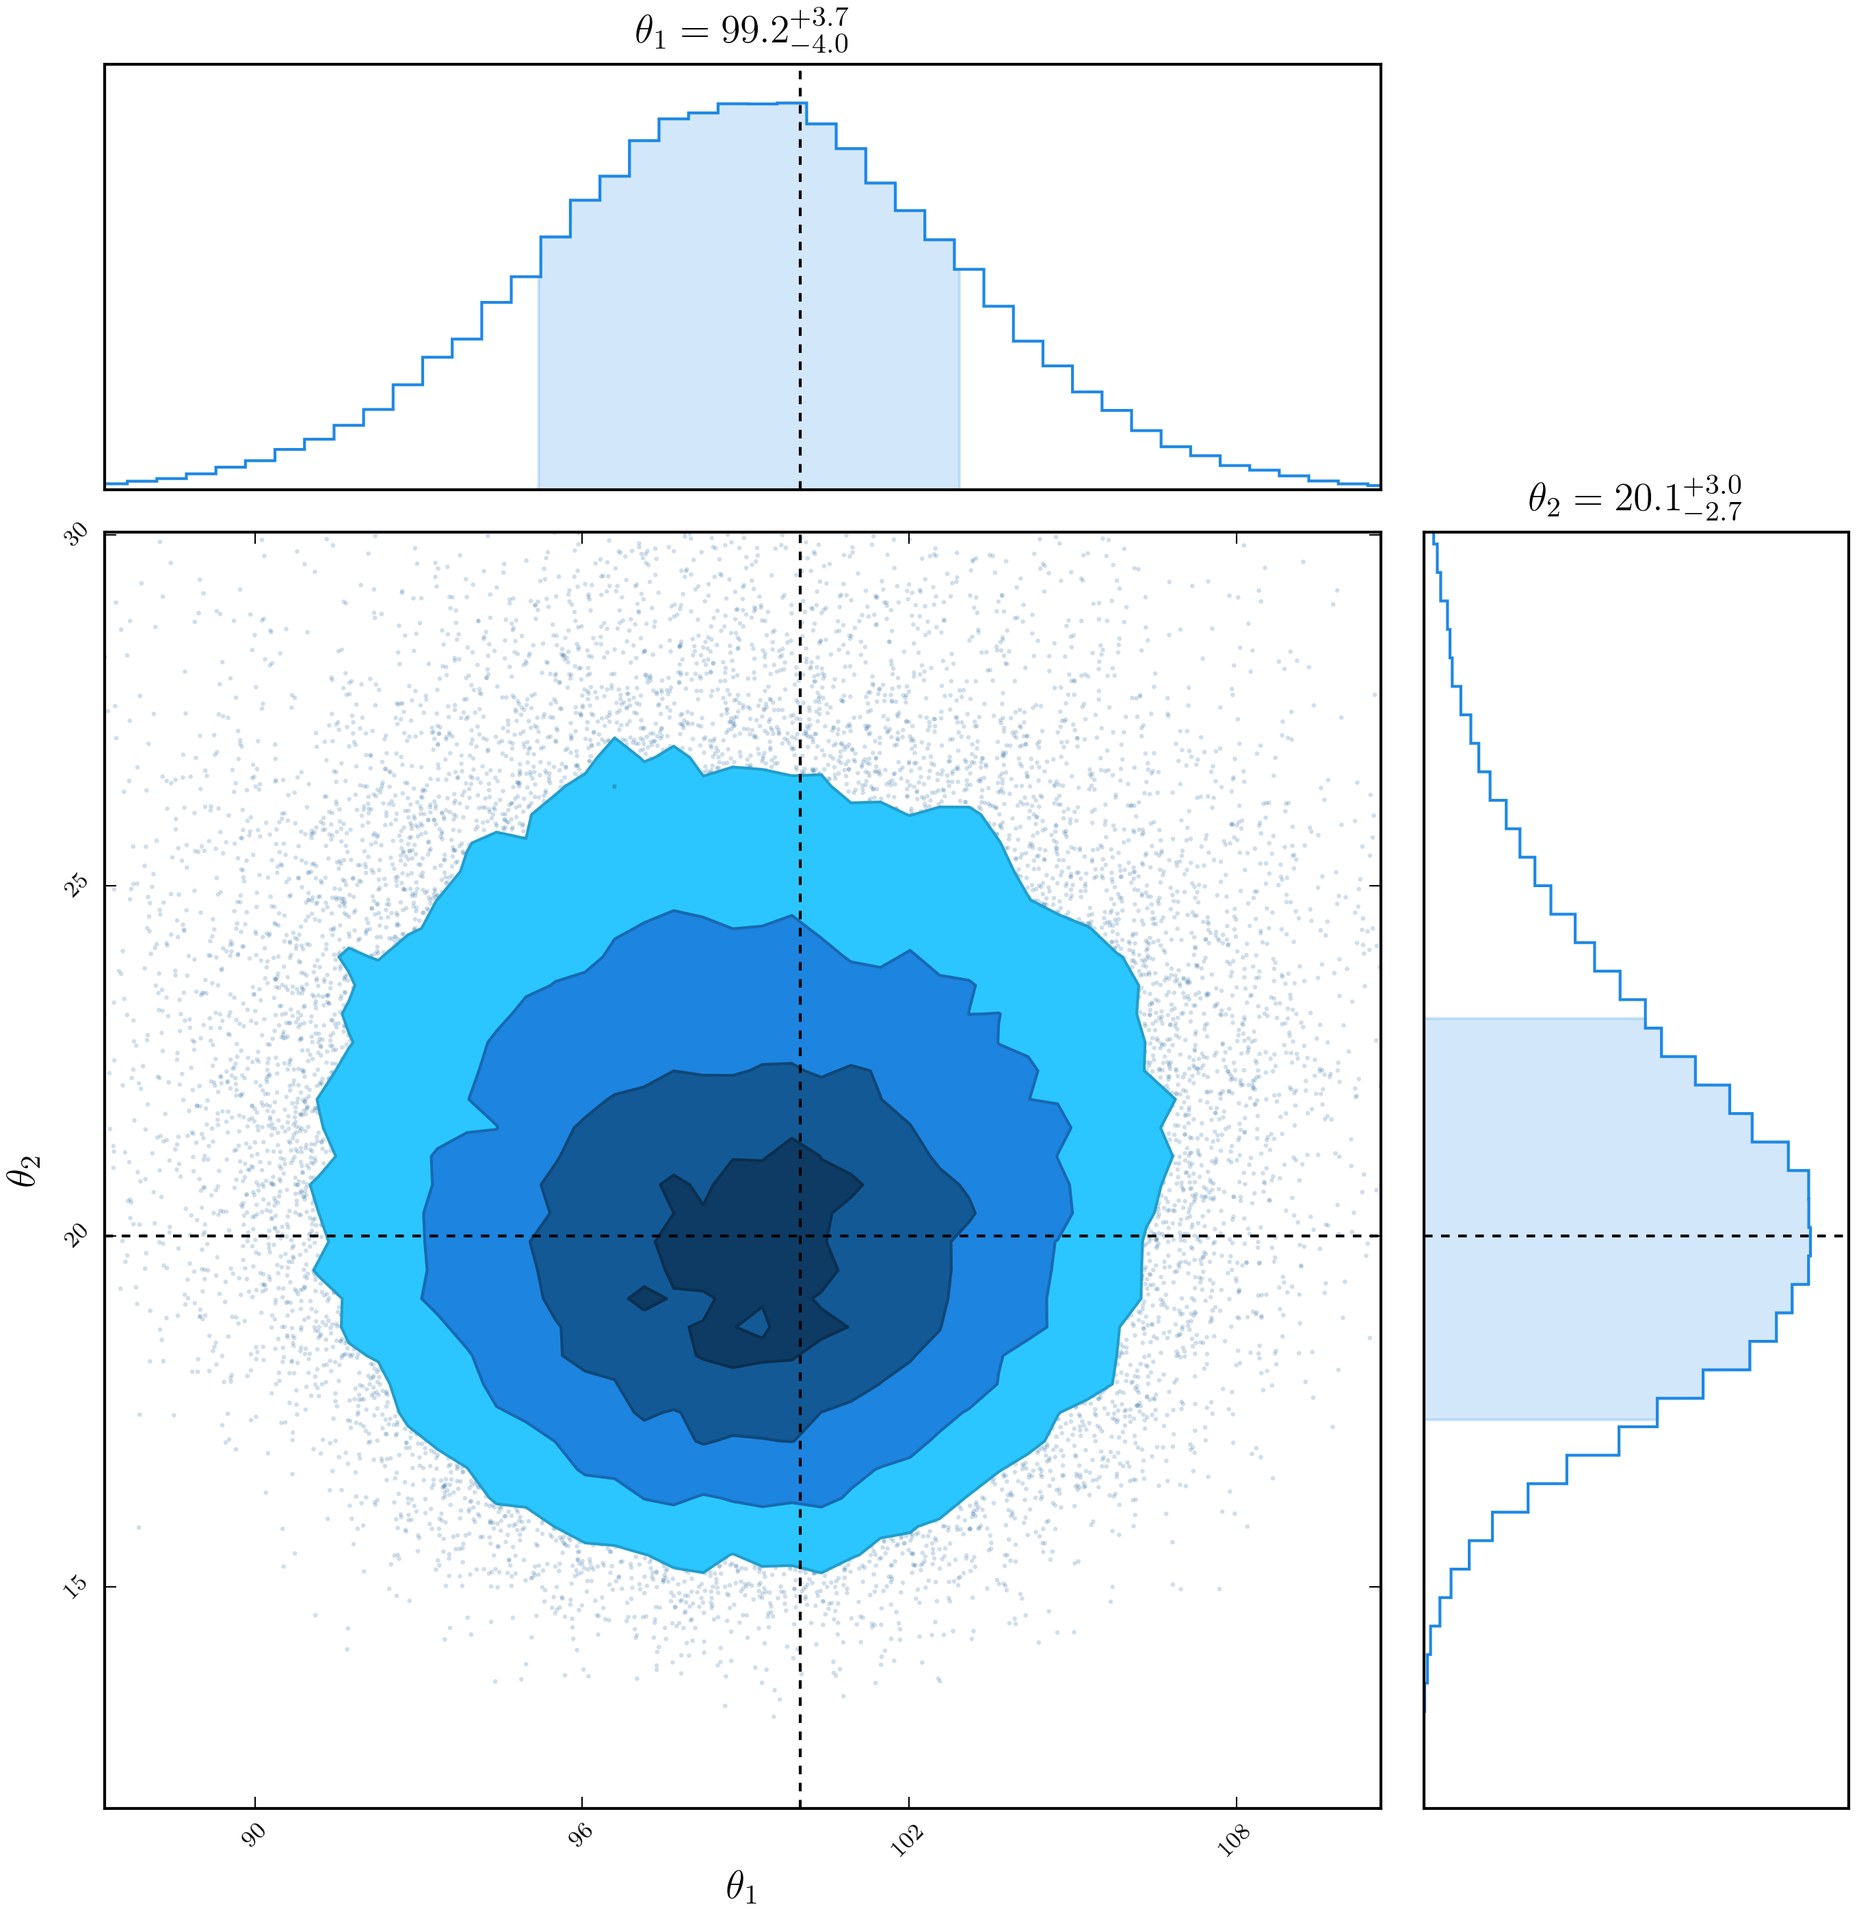
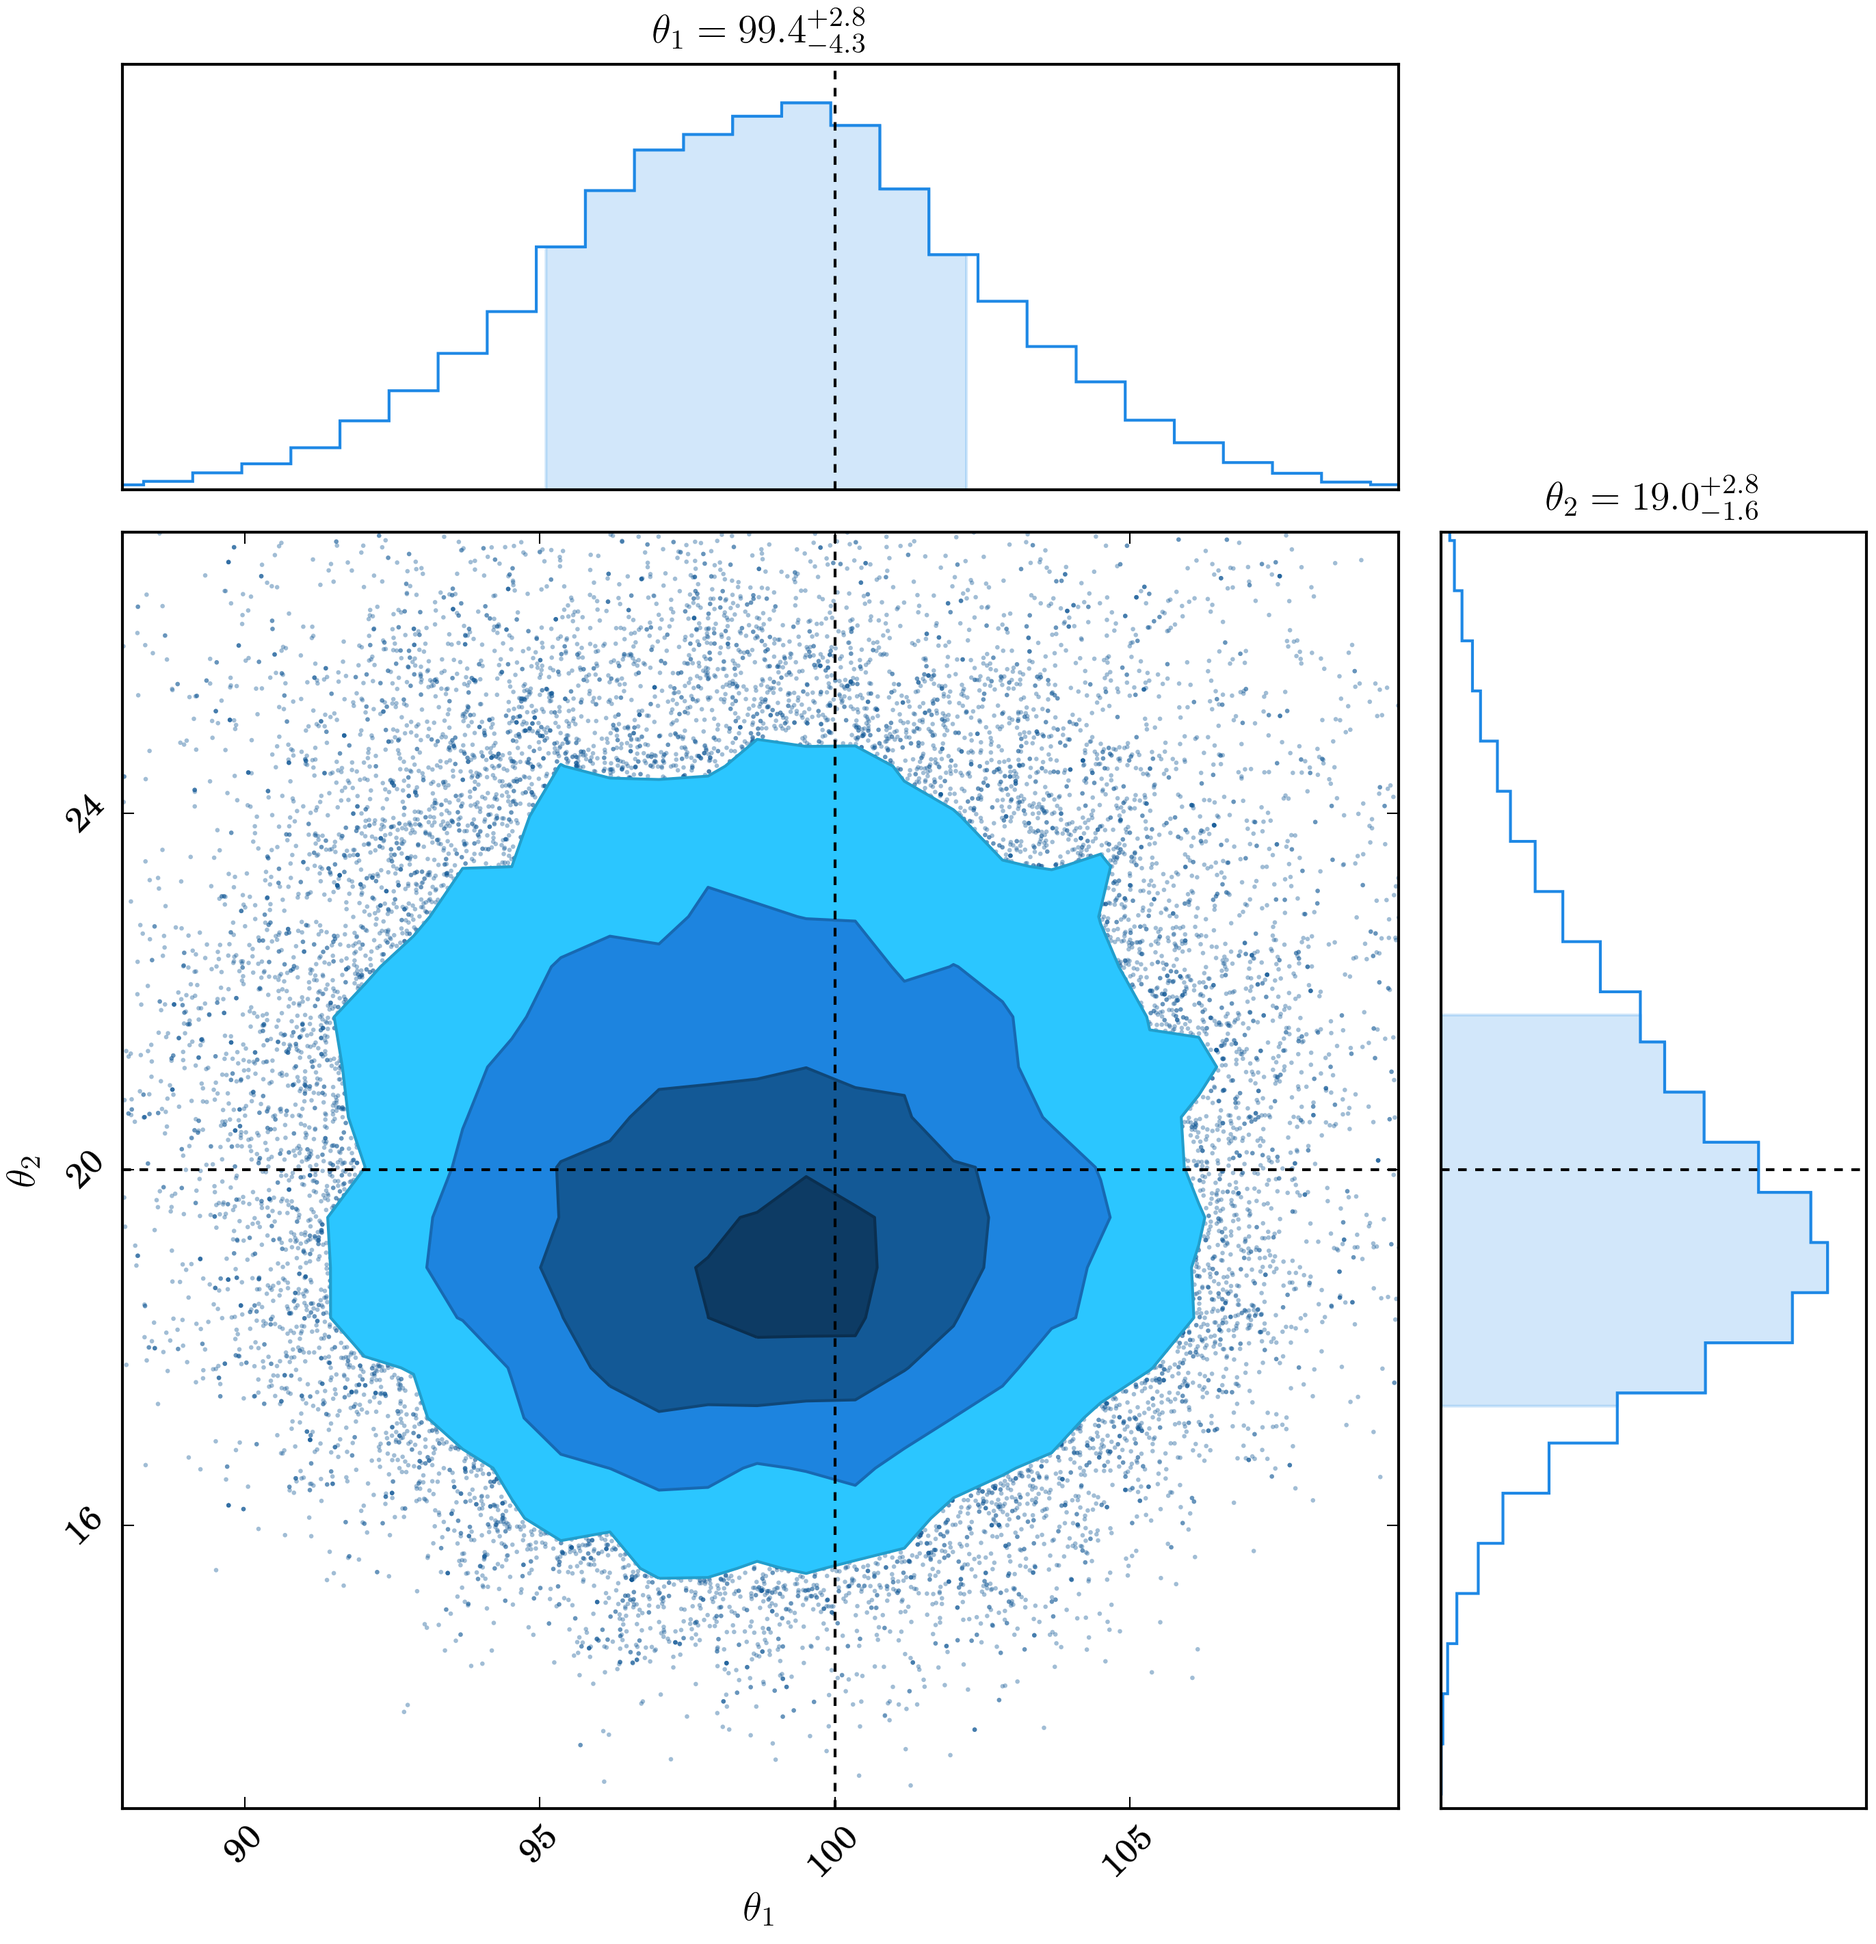
Updating example model

diff --git a/dessn/examples/simple/modelbased/exampleModel.py b/dessn/examples/simple/modelbased/exampleModel.py
@@ -14,13 +14,19 @@ class ObservedFlux(NodeObserved):
     def __init__(self, n=100):
         self.n = n
         flux, error = Example.get_data(n=n, scale=0.5)
+        super(ObservedFlux, self).__init__("flux", "$f$", flux, group="Flux")
 
-        super(ObservedFlux, self).__init__("Flux", ["flux", "flux_error"], ["$f$", r"$\sigma_f$"], [flux, error])
+
+class ObservedFluxError(NodeObserved):
+    def __init__(self, n=100):
+        self.n = n
+        flux, error = Example.get_data(n=n, scale=0.5)
+        super(ObservedFluxError, self).__init__("flux_error", r"$\sigma_f$", error, group="Flux")
 
 
 class LatentLuminosity(NodeLatent):
     def __init__(self, n=100):
-        super(LatentLuminosity, self).__init__("Luminosity", "luminosity", "$L$")
+        super(LatentLuminosity, self).__init__("luminosity", "$L$", group="Luminosity")
         self.n = n
 
     def get_num_latent(self):
@@ -30,32 +36,48 @@ class LatentLuminosity(NodeLatent):
         return ["flux"]
 
     def get_suggestion(self, data):
-        return (data["flux"] * np.random.uniform(0.5, 1.5, data["flux"].shape)).tolist() # Deliberately given wrong
+        return data["flux"] * np.random.uniform(0.5, 1.5)
 
 
-class UnderlyingSupernovaDistribution(NodeUnderlying):
+class UnderlyingSupernovaDistribution1(NodeUnderlying):
     def get_log_prior(self, data):
         """ We model the prior enforcing realistic values"""
         mean = data["SN_theta_1"]
-        sigma = data["SN_theta_2"]
-        if mean < 0 or sigma < 0 or mean > 200 or sigma > 100:
+        if mean < 0 or mean > 200:
             return -np.inf
         return 1
 
     def __init__(self):
-        super(UnderlyingSupernovaDistribution, self).__init__("Supernova", ["SN_theta_1", "SN_theta_2"],
-                                                              [r"$\theta_1$", r"$\theta_2$"])
+        super(UnderlyingSupernovaDistribution1, self).__init__("SN_theta_1", r"$\theta_1$", group="Supernova")
 
     def get_suggestion_requirements(self):
         return []
 
     def get_suggestion(self, data):
-        return [50, 5] # This is deliberately given wrong to ensure that we can recover the actual posterior.
+        return 50
+
+
+class UnderlyingSupernovaDistribution2(NodeUnderlying):
+    def get_log_prior(self, data):
+        """ We model the prior enforcing realistic values"""
+        sigma = data["SN_theta_2"]
+        if sigma < 0 or sigma > 100:
+            return -np.inf
+        return 1
+
+    def __init__(self):
+        super(UnderlyingSupernovaDistribution2, self).__init__("SN_theta_2", r"$\theta_2$", group="Supernova")
+
+    def get_suggestion_requirements(self):
+        return []
+
+    def get_suggestion(self, data):
+        return 5
 
 
 class UselessTransformation(NodeTransformation):
     def __init__(self):
-        super(UselessTransformation, self).__init__("Transformed Luminosity", "double_luminosity", "$2L$")
+        super(UselessTransformation, self).__init__("double_luminosity", "$2L$", group="Transformed Luminosity")
 
 
 class LuminosityToAdjusted(EdgeTransformation):
@@ -71,10 +93,10 @@ class FluxToLuminosity(Edge):
         super(FluxToLuminosity, self).__init__(["flux", "flux_error"], "luminosity")
 
     def get_log_likelihood(self, data):
-        luminosity = data["luminosity"]
-        flux = data["flux"]
-        flux_error = data["flux_error"]
-        return -np.sum((flux - luminosity) * (flux - luminosity) / (2.0 * flux_error * flux_error) + np.log(np.sqrt(2 * np.pi) * flux_error))
+        l = data["luminosity"]
+        f = data["flux"]
+        e = data["flux_error"]
+        return -((f - l) * (f - l) / (2.0 * e * e) - np.log(np.sqrt(2 * np.pi) * e))
 
 
 class LuminosityToSupernovaDistribution(Edge):
@@ -82,12 +104,12 @@ class LuminosityToSupernovaDistribution(Edge):
         super(LuminosityToSupernovaDistribution, self).__init__("double_luminosity", ["SN_theta_1", "SN_theta_2"])
 
     def get_log_likelihood(self, data):
-        luminosity = data["double_luminosity"]
-        theta1 = data["SN_theta_1"]
-        theta2 = data["SN_theta_2"]
-        if theta2 < 0:
+        l = data["double_luminosity"]
+        t1 = data["SN_theta_1"]
+        t2 = data["SN_theta_2"]
+        if t2 < 0:
             return -np.inf
-        return -np.sum((luminosity - theta1) * (luminosity - theta1) / (2.0 * theta2 * theta2)) - luminosity.size * np.log(np.sqrt(2 * np.pi) * theta2)
+        return -(l - t1) * (l - t1) / (2.0 * t2 * t2) - np.log(np.sqrt(2 * np.pi) * t2)
 
 
 class ExampleModel(Model):
@@ -119,13 +141,17 @@ class ExampleModel(Model):
         n = 30
 
         flux = ObservedFlux(n=n)
+        flux_error = ObservedFluxError(n=n)
         luminosity = LatentLuminosity(n=n)
         useless = UselessTransformation()
-        supernova = UnderlyingSupernovaDistribution()
+        supernova1 = UnderlyingSupernovaDistribution1()
+        supernova2 = UnderlyingSupernovaDistribution2()
         self.add_node(flux)
+        self.add_node(flux_error)
         self.add_node(luminosity)
         self.add_node(useless)
-        self.add_node(supernova)
+        self.add_node(supernova1)
+        self.add_node(supernova2)
 
         self.add_edge(FluxToLuminosity())
         self.add_edge(LuminosityToAdjusted())
@@ -143,18 +169,18 @@ if __name__ == "__main__":
     dir_name = os.path.dirname(__file__)
     logging.info("Creating model")
     exampleModel = ExampleModel()
-    temp_dir = os.path.abspath(dir_name + "/../../../temp/exampleModel")
+    temp_dir = os.path.abspath(dir_name + "/../../../../temp/exampleModel")
 
     if not only_data:
-        plot_file = os.path.abspath(dir_name + "/../../../plots/exampleModel.png")
-        pgm_file = os.path.abspath(dir_name + "/../../../plots/examplePGM.png")
-        exampleModel.get_pgm(pgm_file)
+        plot_file = os.path.abspath(dir_name + "/../../../../plots/exampleModel.png")
+        pgm_file = os.path.abspath(dir_name + "/../../../../plots/examplePGM.png")
+        # exampleModel.get_pgm(pgm_file)
 
     logging.info("Starting fit")
-    exampleModel.fit_model(num_steps=20000, num_burn=5000, temp_dir=temp_dir, save_interval=20)
+    exampleModel.fit_model(num_steps=2000, num_burn=50, temp_dir=temp_dir, save_interval=20)
 
     if not only_data:
         chain_consumer = exampleModel.get_consumer()
-        chain_consumer.configure_general(bins=1.0)
+        chain_consumer.configure_general(bins=0.8)
         print(chain_consumer.get_summary())
         chain_consumer.plot(filename=plot_file, display=False, figsize="PAGE", truth=[100, 20])

diff --git a/dessn/model/model.py b/dessn/model/model.py
@@ -128,8 +128,7 @@ class Model(object):
             self._theta_labels.append(node.label)
         self._num_actual = len(self._theta_names)
         for node in self._latent_nodes:
-            for name in node.names:
-                self._theta_names += [name] * node.get_num_latent()
+            self._theta_names += [node.name] * node.get_num_latent()
 
         num_edges = len(self.edges)
         observed_names = [node.name for node in self.nodes if not isinstance(node, NodeTransformation)]
@@ -276,11 +275,16 @@ class Model(object):
                 node_sorted.append(node)
         theta = []
         data = self.data
+        print(data)
+        print(node_sorted)
         for node in node_sorted:
-            node_data = dict((key, data[key]) for key in data if key in node.get_suggestion_requirements())
-            temp_arr = node.get_suggestion(node_data)
-            theta += temp_arr
-
+            reqs = node.get_suggestion_requirements()
+            if len(reqs) == 0:
+                theta.append(node.get_suggestion({}))
+            else:
+                for row in data:
+                    node_data = dict((key, row[key]) for key in reqs)
+                    theta.append(node.get_suggestion(node_data))
         return theta
 
     def _get_starting_position(self, num_walkers):

diff --git a/dessn/chain/chain.py b/dessn/chain/chain.py
@@ -628,8 +628,8 @@ class ChainConsumer(object):
         hist[hist == 0] = 1E-16
         vals = self._convert_to_stdev(hist.T)
         if self.parameters_contour["cloud"]:
-            skip = max(1, x.size / 50000)
-            ax.scatter(x[::skip], y[::skip], s=10, alpha=0.2, c=colours[1], marker=".", edgecolors="none")
+            skip = max(1, x.size / 80000)
+            ax.scatter(x[::skip], y[::skip], s=10, alpha=0.4, c=colours[1], marker=".", edgecolors="none")
         if self.parameters_contour["contourf"]:
             ax.contourf(x_centers, y_centers, vals, levels=levels, colors=colours, alpha=self.parameters_contour["contourf_alpha"])
         ax.contour(x_centers, y_centers, vals, levels=levels, colors=colours2)

diff --git a/dessn/examples/simple/example.py b/dessn/examples/simple/example.py
@@ -3,7 +3,7 @@ import emcee
 from scipy import stats
 import os
 import abc
-
+import matplotlib.pyplot as plt
 
 
 class Example(object):
@@ -86,7 +86,7 @@ class Example(object):
         error = 0.2 * np.sqrt(data)
         data += stats.norm.rvs(size=n) * error
 
-        return data, error
+        return data.tolist(), error.tolist()
 
     def plot_observations(self):
         """Plot the observations and observation distribution.

diff --git a/dessn/examples/discrete/discrete.py b/dessn/examples/discrete/discrete.py
@@ -3,7 +3,6 @@ import os
 import sys
 
 import numpy as np
-
 from dessn.model.edge import Edge
 from dessn.model.model import Model
 from dessn.model.node import NodeObserved, NodeUnderlying, NodeDiscrete
